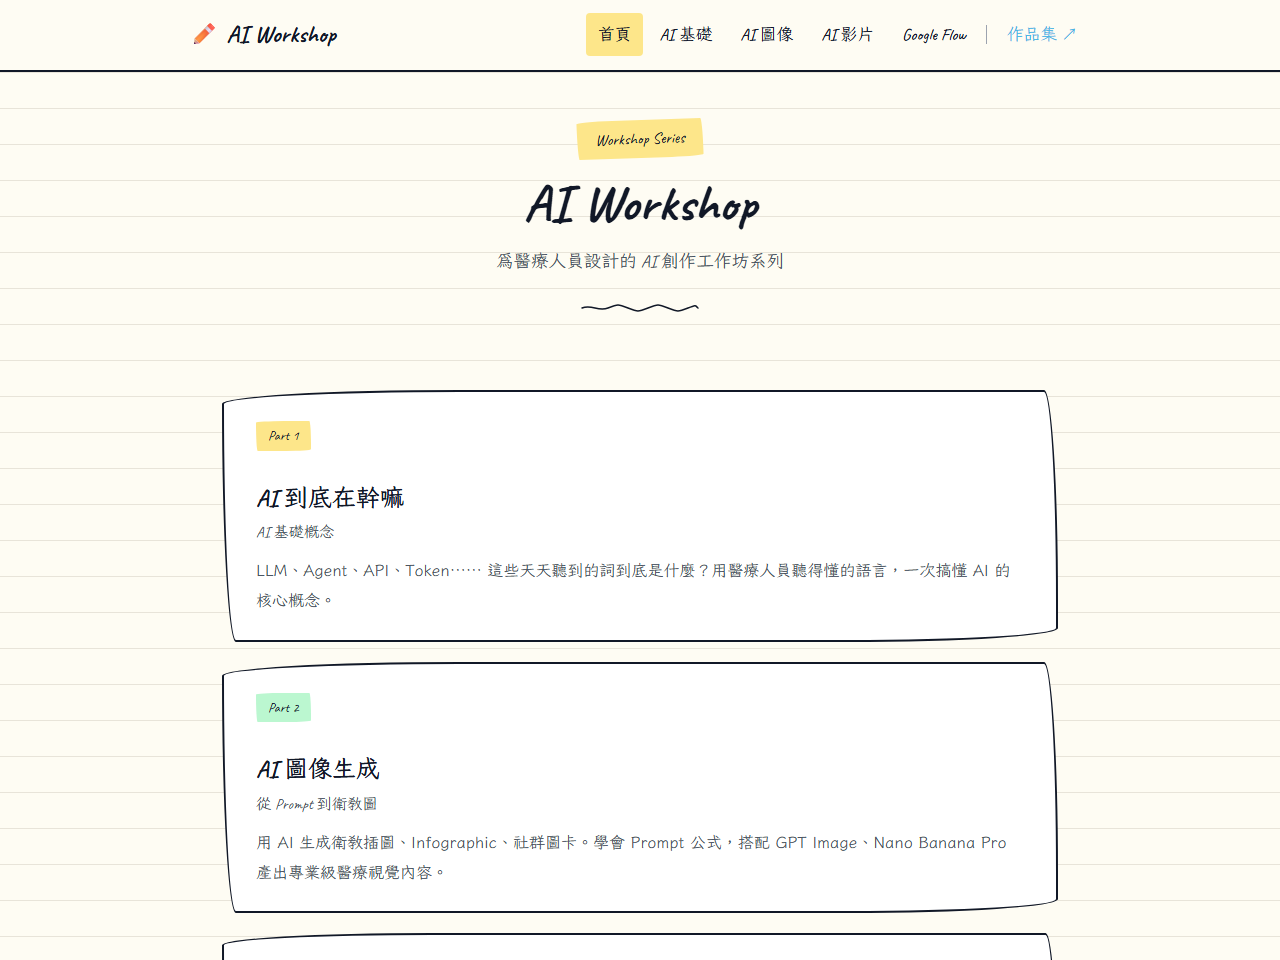
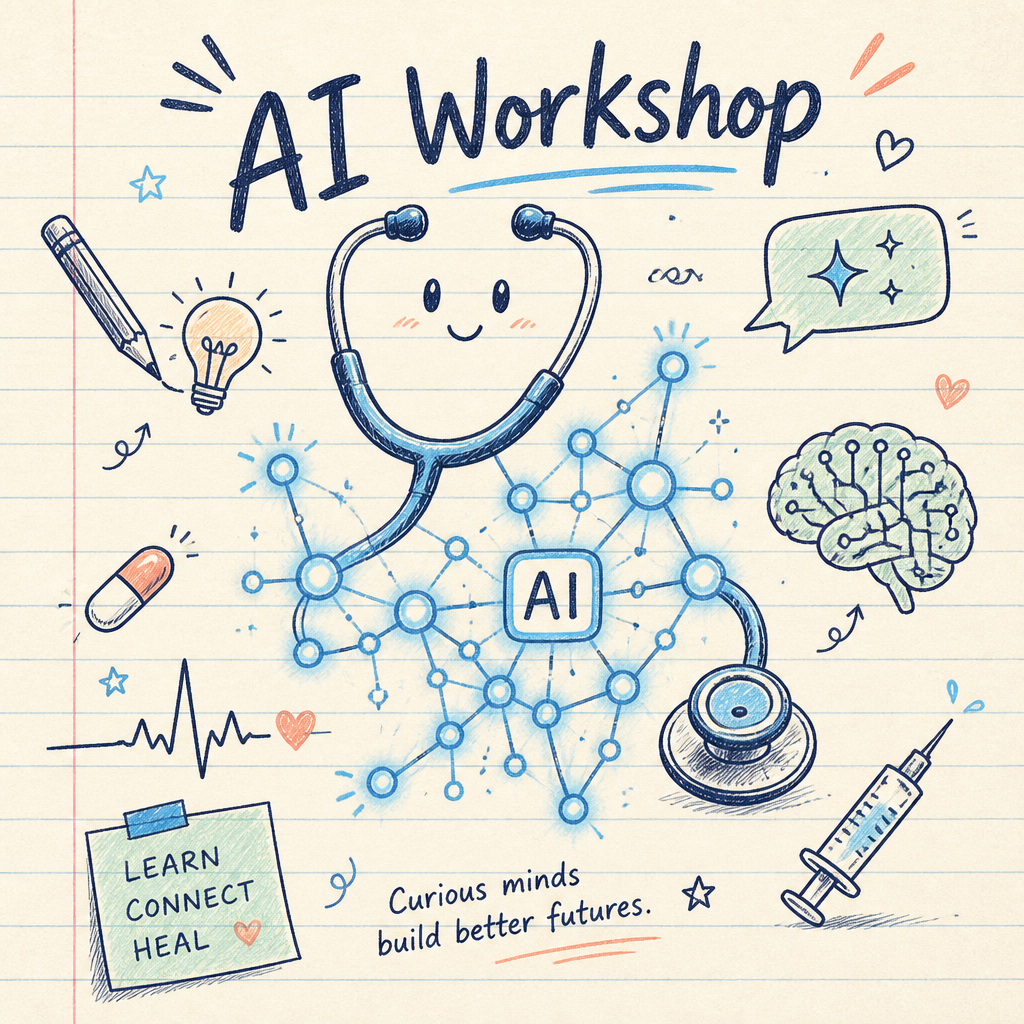
fix: replace OG image with doodle card illustration
- og-image.png now the 1024x1024 doodle illustration shared with the
  tingyudeco.com Insights card (was: full-page screenshot, illegible at
  thumbnail size)
- twitter:card switched to summary so the square image is not cropped

diff --git a/ai-fundamentals.html b/ai-fundamentals.html
@@ -10,7 +10,7 @@
   <meta property="og:description" content="用醫療人員聽得懂的語言，一次搞懂 LLM、Agent、API、Token 等 AI 核心概念。">
   <meta property="og:url" content="https://ttingyu1123.github.io/ai-workshop/ai-fundamentals.html">
   <meta property="og:image" content="https://ttingyu1123.github.io/ai-workshop/og-image.png">
-  <meta name="twitter:card" content="summary_large_image">
+  <meta name="twitter:card" content="summary">
   <link rel="preconnect" href="https://fonts.googleapis.com">
   <link rel="preconnect" href="https://fonts.gstatic.com" crossorigin>
   <link rel="stylesheet" href="https://fonts.googleapis.com/css2?family=Caveat:wght@400;500;600;700&family=LXGW+WenKai+TC:wght@400;700&family=JetBrains+Mono:wght@400;500&display=swap">

diff --git a/ai-image.html b/ai-image.html
@@ -10,7 +10,7 @@
   <meta property="og:description" content="用 AI 生成衛教插圖、Infographic、社群圖卡。學會 Prompt 公式，產出專業級醫療視覺內容。">
   <meta property="og:url" content="https://ttingyu1123.github.io/ai-workshop/ai-image.html">
   <meta property="og:image" content="https://ttingyu1123.github.io/ai-workshop/og-image.png">
-  <meta name="twitter:card" content="summary_large_image">
+  <meta name="twitter:card" content="summary">
   <link rel="preconnect" href="https://fonts.googleapis.com">
   <link rel="preconnect" href="https://fonts.gstatic.com" crossorigin>
   <link rel="stylesheet" href="https://fonts.googleapis.com/css2?family=Caveat:wght@400;500;600;700&family=LXGW+WenKai+TC:wght@400;700&family=JetBrains+Mono:wght@400;500&display=swap">

diff --git a/ai-video.html b/ai-video.html
@@ -10,7 +10,7 @@
   <meta property="og:description" content="首尾幀、關鍵幀等剪輯觀念，搭配 AI 語音合成與影片生成工具，完整短影片製作流程。">
   <meta property="og:url" content="https://ttingyu1123.github.io/ai-workshop/ai-video.html">
   <meta property="og:image" content="https://ttingyu1123.github.io/ai-workshop/og-image.png">
-  <meta name="twitter:card" content="summary_large_image">
+  <meta name="twitter:card" content="summary">
   <link rel="preconnect" href="https://fonts.googleapis.com">
   <link rel="preconnect" href="https://fonts.gstatic.com" crossorigin>
   <link rel="stylesheet" href="https://fonts.googleapis.com/css2?family=Caveat:wght@400;500;600;700&family=LXGW+WenKai+TC:wght@400;700&family=JetBrains+Mono:wght@400;500&display=swap">

diff --git a/google-flow.html b/google-flow.html
@@ -10,7 +10,7 @@
   <meta property="og:description" content="Google Flow 完整教學 — 圖像生成、影片製作，免費額度足夠日常使用。">
   <meta property="og:url" content="https://ttingyu1123.github.io/ai-workshop/google-flow.html">
   <meta property="og:image" content="https://ttingyu1123.github.io/ai-workshop/og-image.png">
-  <meta name="twitter:card" content="summary_large_image">
+  <meta name="twitter:card" content="summary">
   <link rel="preconnect" href="https://fonts.googleapis.com">
   <link rel="preconnect" href="https://fonts.gstatic.com" crossorigin>
   <link rel="stylesheet" href="https://fonts.googleapis.com/css2?family=Caveat:wght@400;500;600;700&family=LXGW+WenKai+TC:wght@400;700&family=JetBrains+Mono:wght@400;500&display=swap">

diff --git a/index.html b/index.html
@@ -10,7 +10,7 @@
   <meta property="og:description" content="為醫療人員設計的 AI 工作坊系列 — 從基礎概念到實戰應用。">
   <meta property="og:url" content="https://ttingyu1123.github.io/ai-workshop/">
   <meta property="og:image" content="https://ttingyu1123.github.io/ai-workshop/og-image.png">
-  <meta name="twitter:card" content="summary_large_image">
+  <meta name="twitter:card" content="summary">
   <link rel="preconnect" href="https://fonts.googleapis.com">
   <link rel="preconnect" href="https://fonts.gstatic.com" crossorigin>
   <link rel="stylesheet" href="https://fonts.googleapis.com/css2?family=Caveat:wght@400;500;600;700&family=LXGW+WenKai+TC:wght@400;700&family=JetBrains+Mono:wght@400;500&display=swap">

diff --git a/.claude/napkin.md b/.claude/napkin.md
@@ -1,0 +1,16 @@
+# Napkin Runbook
+
+## Curation Rules
+- Re-prioritize on every read.
+- Keep recurring, high-value notes only.
+- Max 10 items per category.
+- Each item includes date + "Do instead".
+
+## Execution & Validation (Highest Priority)
+*(填入：這個 repo 常見的執行錯誤、驗證步驟)*
+
+## Domain Behavior Guardrails
+*(填入：這個 repo 的業務規則、API 限制、特殊行為)*
+
+## User Directives
+*(填入：用戶對這個專案的特定偏好)*

diff --git a/CLAUDE.md b/CLAUDE.md
@@ -20,7 +20,7 @@ ai-workshop/
 ├── ai-video.html       # Part 3 — AI 影片製作
 ├── google-flow.html    # Part 4 — Google Flow 實戰
 ├── 404.html            # GitHub Pages 404（連結用 /ai-workshop/ 絕對路徑）
-└── og-image.png        # OG 分享圖（首頁截圖 1280x960，全站共用）
+└── og-image.png        # OG 分享圖（doodle 插畫 1024x1024，與 website Insights 卡片同一張）
 ```
 
 ## 設計規範
@@ -84,7 +84,7 @@ ai-workshop/
 - [ ] 醫學筆記/衛教圖專區（待規劃）
 
 ### 技術
-- [x] OG 圖片（og-image.png，全站共用首頁截圖 — 首頁改版後要重新截圖，tingyudeco.com Insights 的卡片圖同源、要一併更新）
+- [x] OG 圖片（og-image.png，doodle 插畫，與 website repo `public/images/insights/ai-workshop.png` 是同一張圖，換圖時要兩邊同步）
 - [ ] favicon
 - [ ] Google Analytics（可選）
 - [ ] sitemap.xml